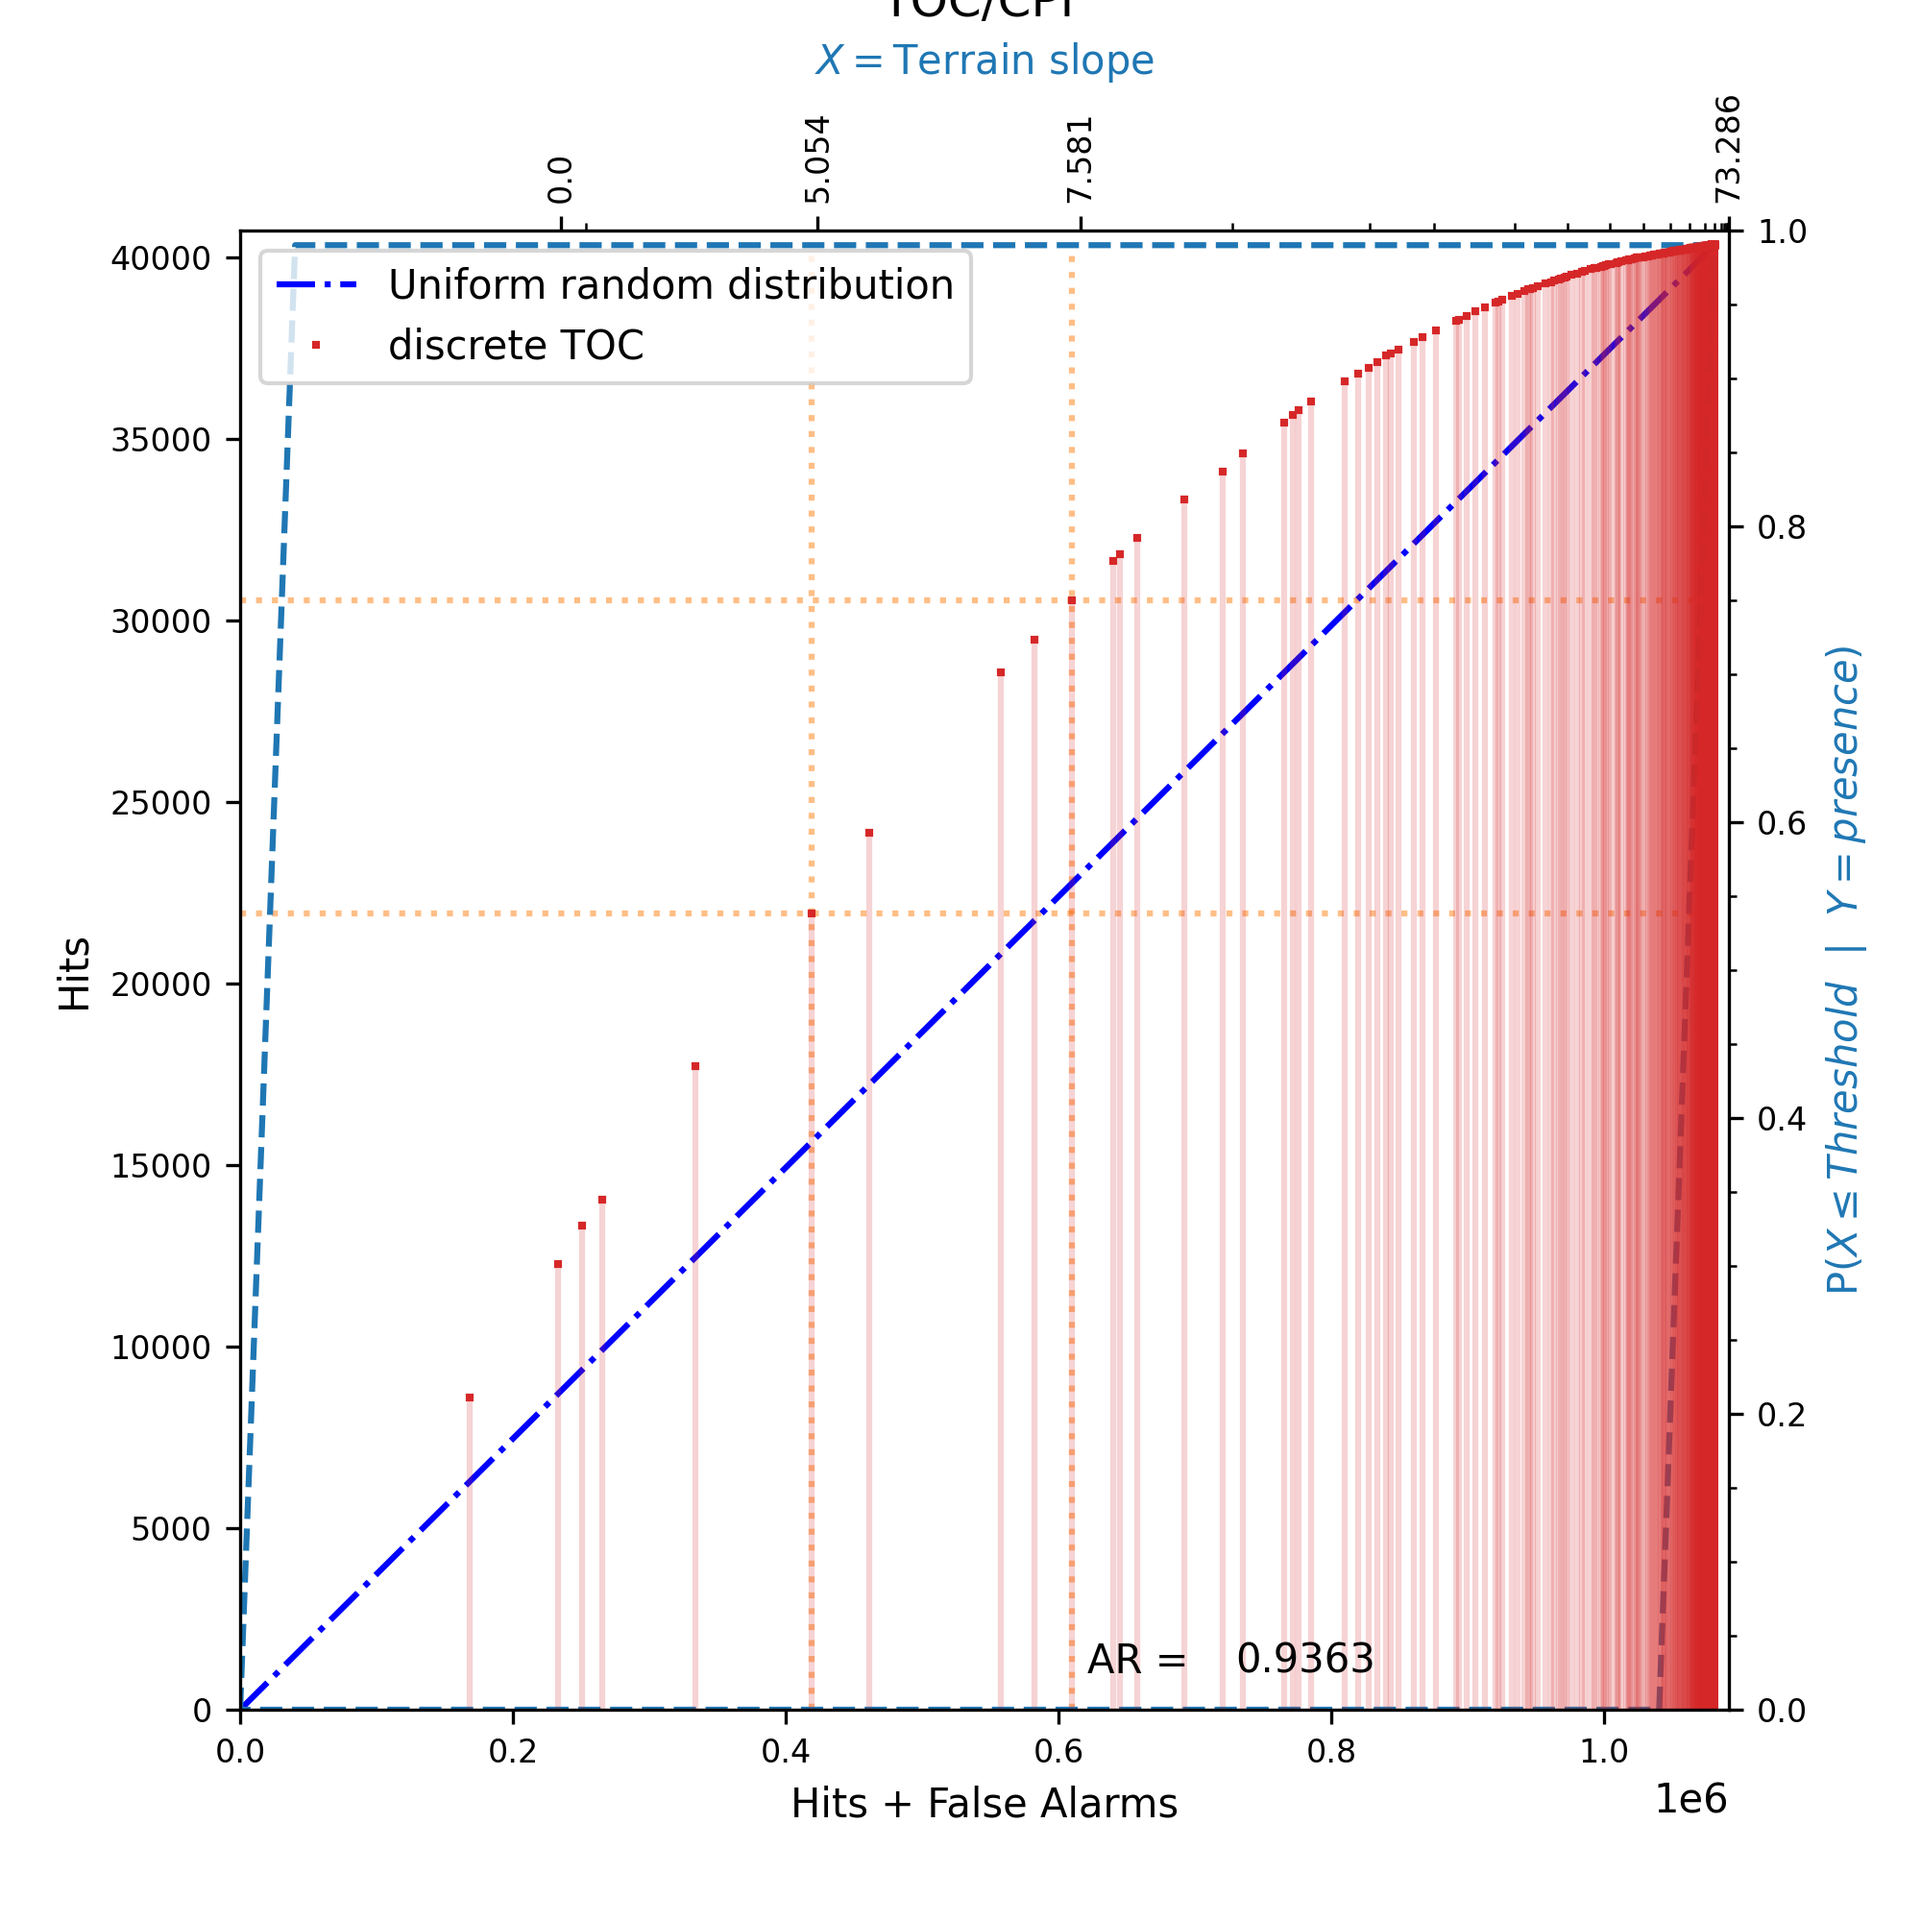
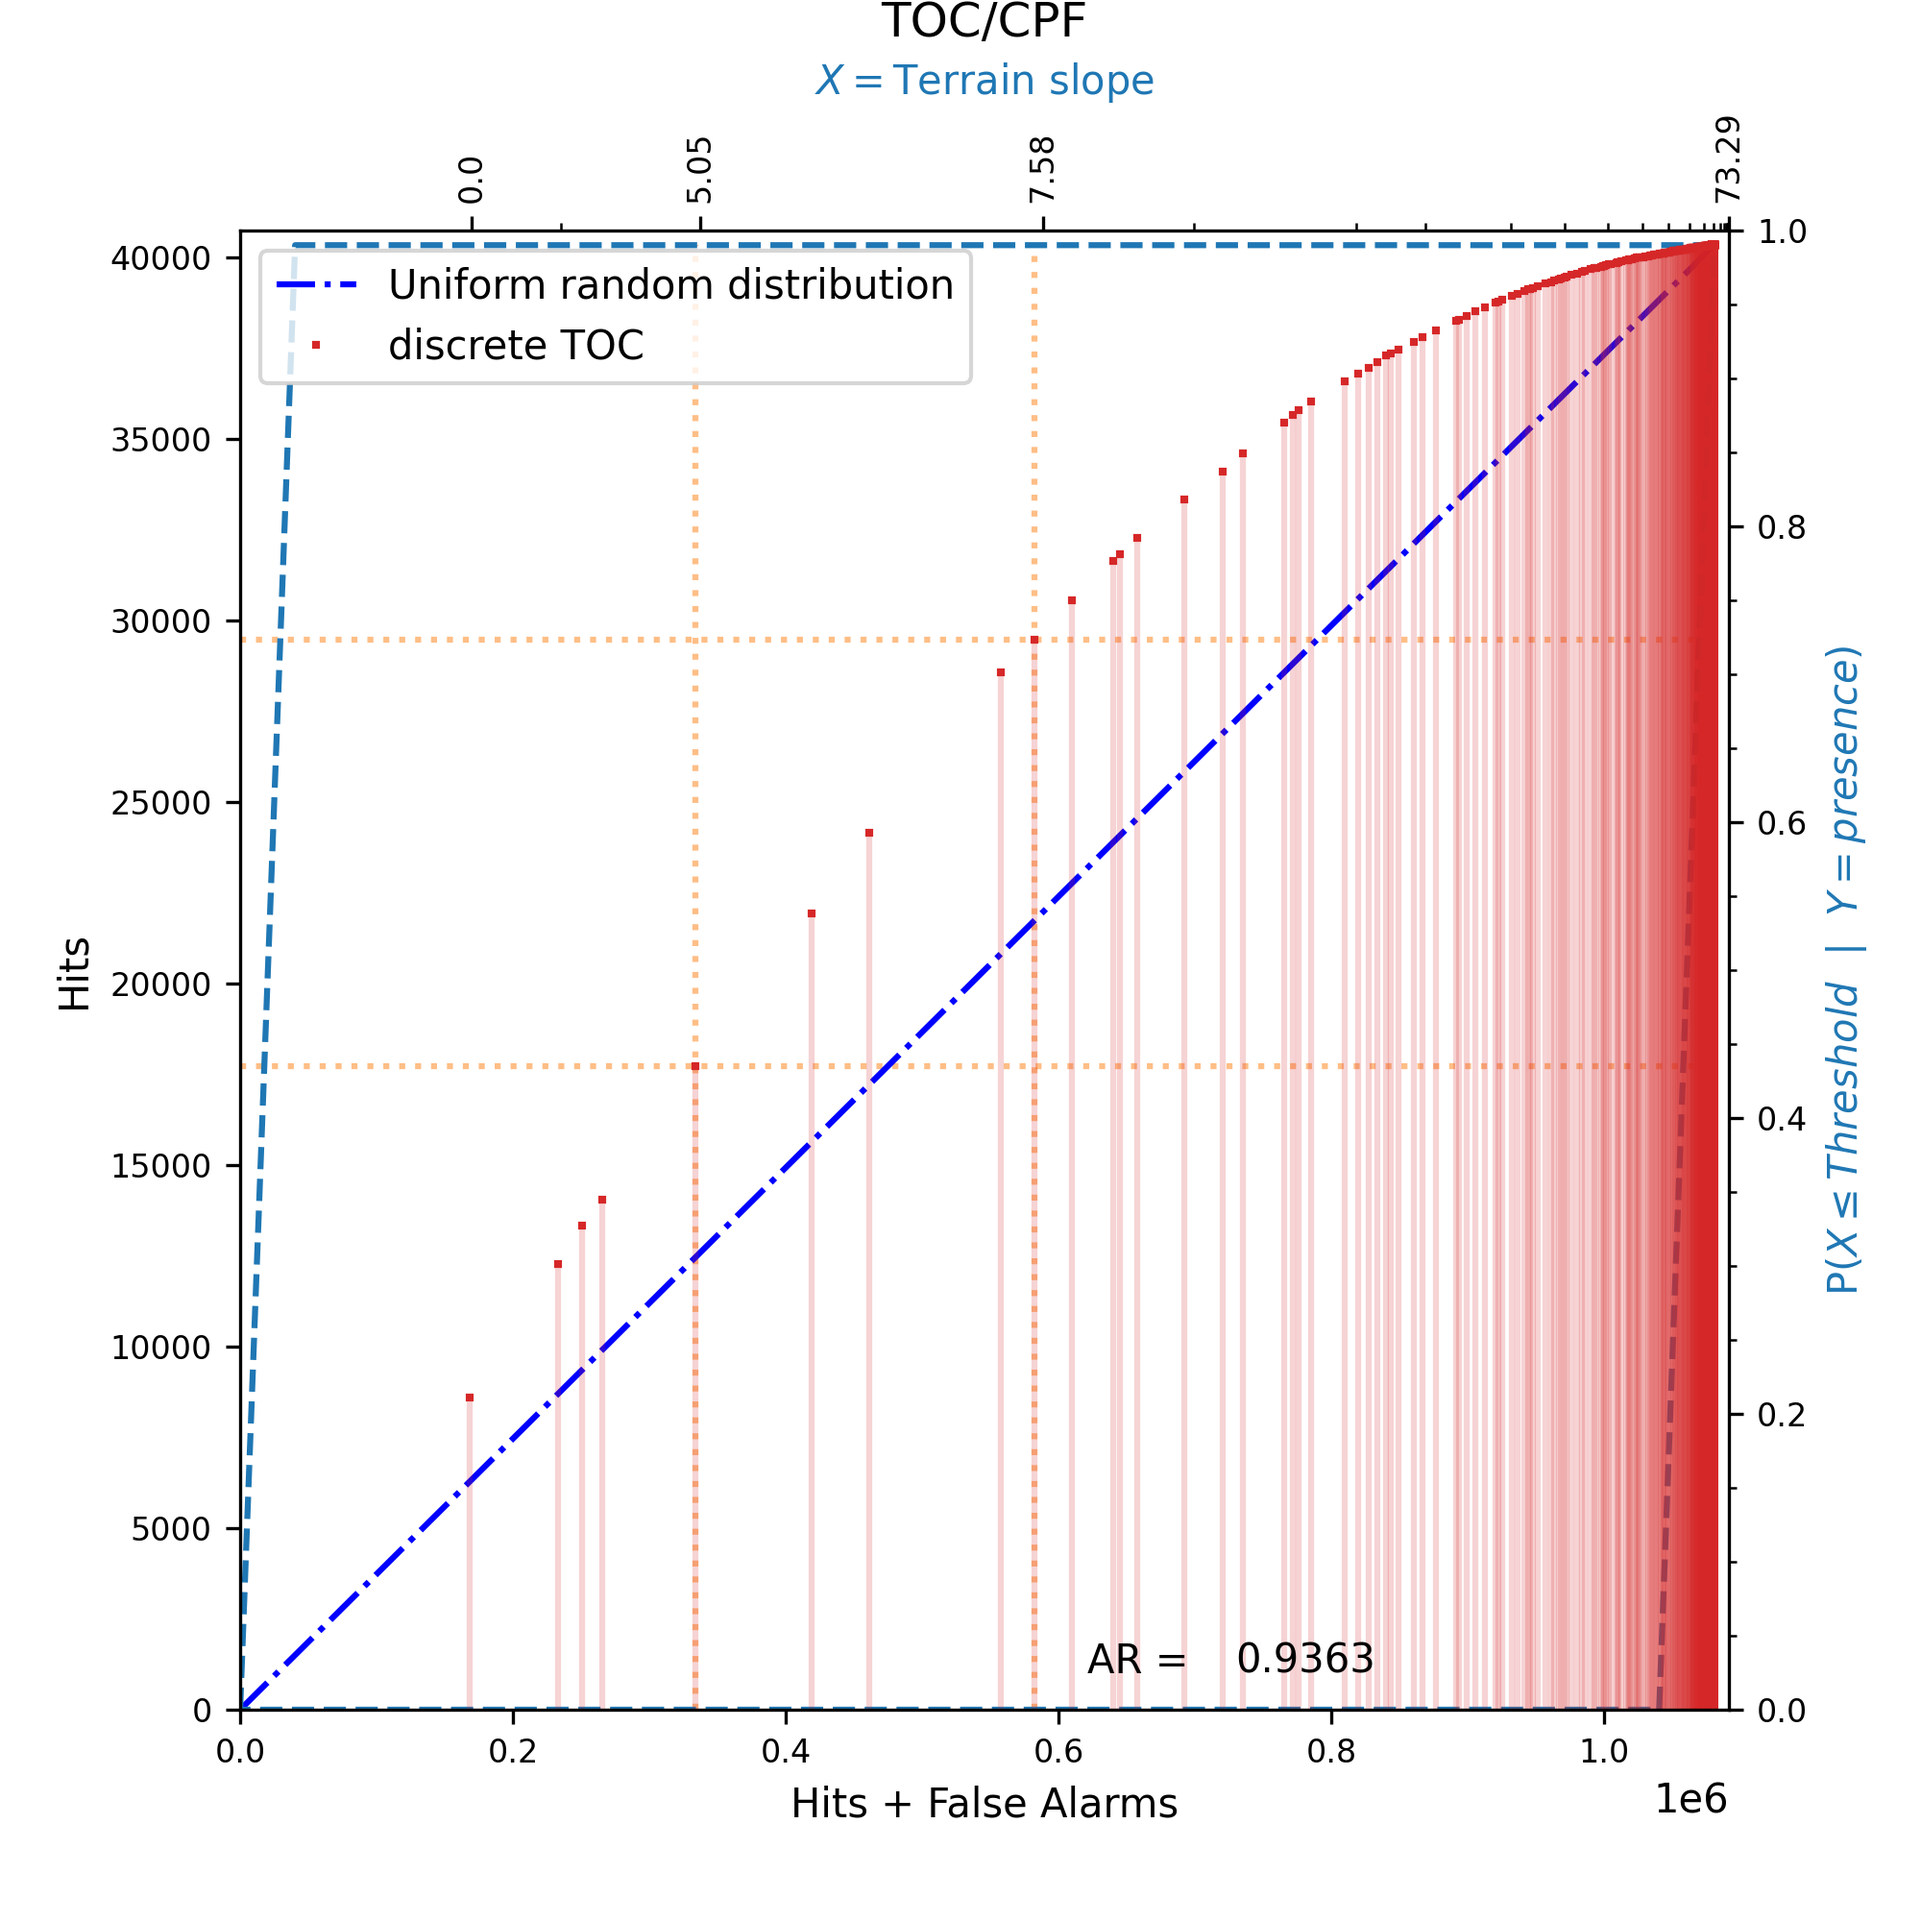
Corrected: misplaced rank ticks in the TOC plot.

diff --git a/patoc.py b/patoc.py
@@ -929,7 +929,7 @@ def tickPositions(self,Xupper, n = 30):
             if (j==len(Xupper)):
                 j=j-1
                 break
-        iX[i]=j
+        iX[i]=j-1
     return equalXs, iX.astype(int)
 
 
@@ -961,7 +961,7 @@ def __plotTOC(self,filename = '',title='default',Legend='TOC',kind='TOC',height=
     n = np.argmax(self.HpFA[self.iUnique][iX][1:]-self.HpFA[self.iUnique][iX][:-1])
     ax2.xaxis.set_major_locator(ticker.FixedLocator( self.HpFA[self.iUnique][iX][[0, n, n+1, -1]] ))
     ##Large ticks labels
-    prtdec=max(-np.log10(np.max(abs(equalXs)))+3,1)
+    prtdec=max(int(-np.log10(np.max(abs(equalXs))))+3,1)
     ax2.set_xticklabels(np.around(equalXs[[0, n, n+1, -1]],prtdec), rotation = 90)
     if ('intersections' in options):
         ax1.vlines(self.HpFA[self.iUnique][iX][[n, n+1]],0,self.np,linestyles='dotted',colors="tab:orange",alpha=0.5)
